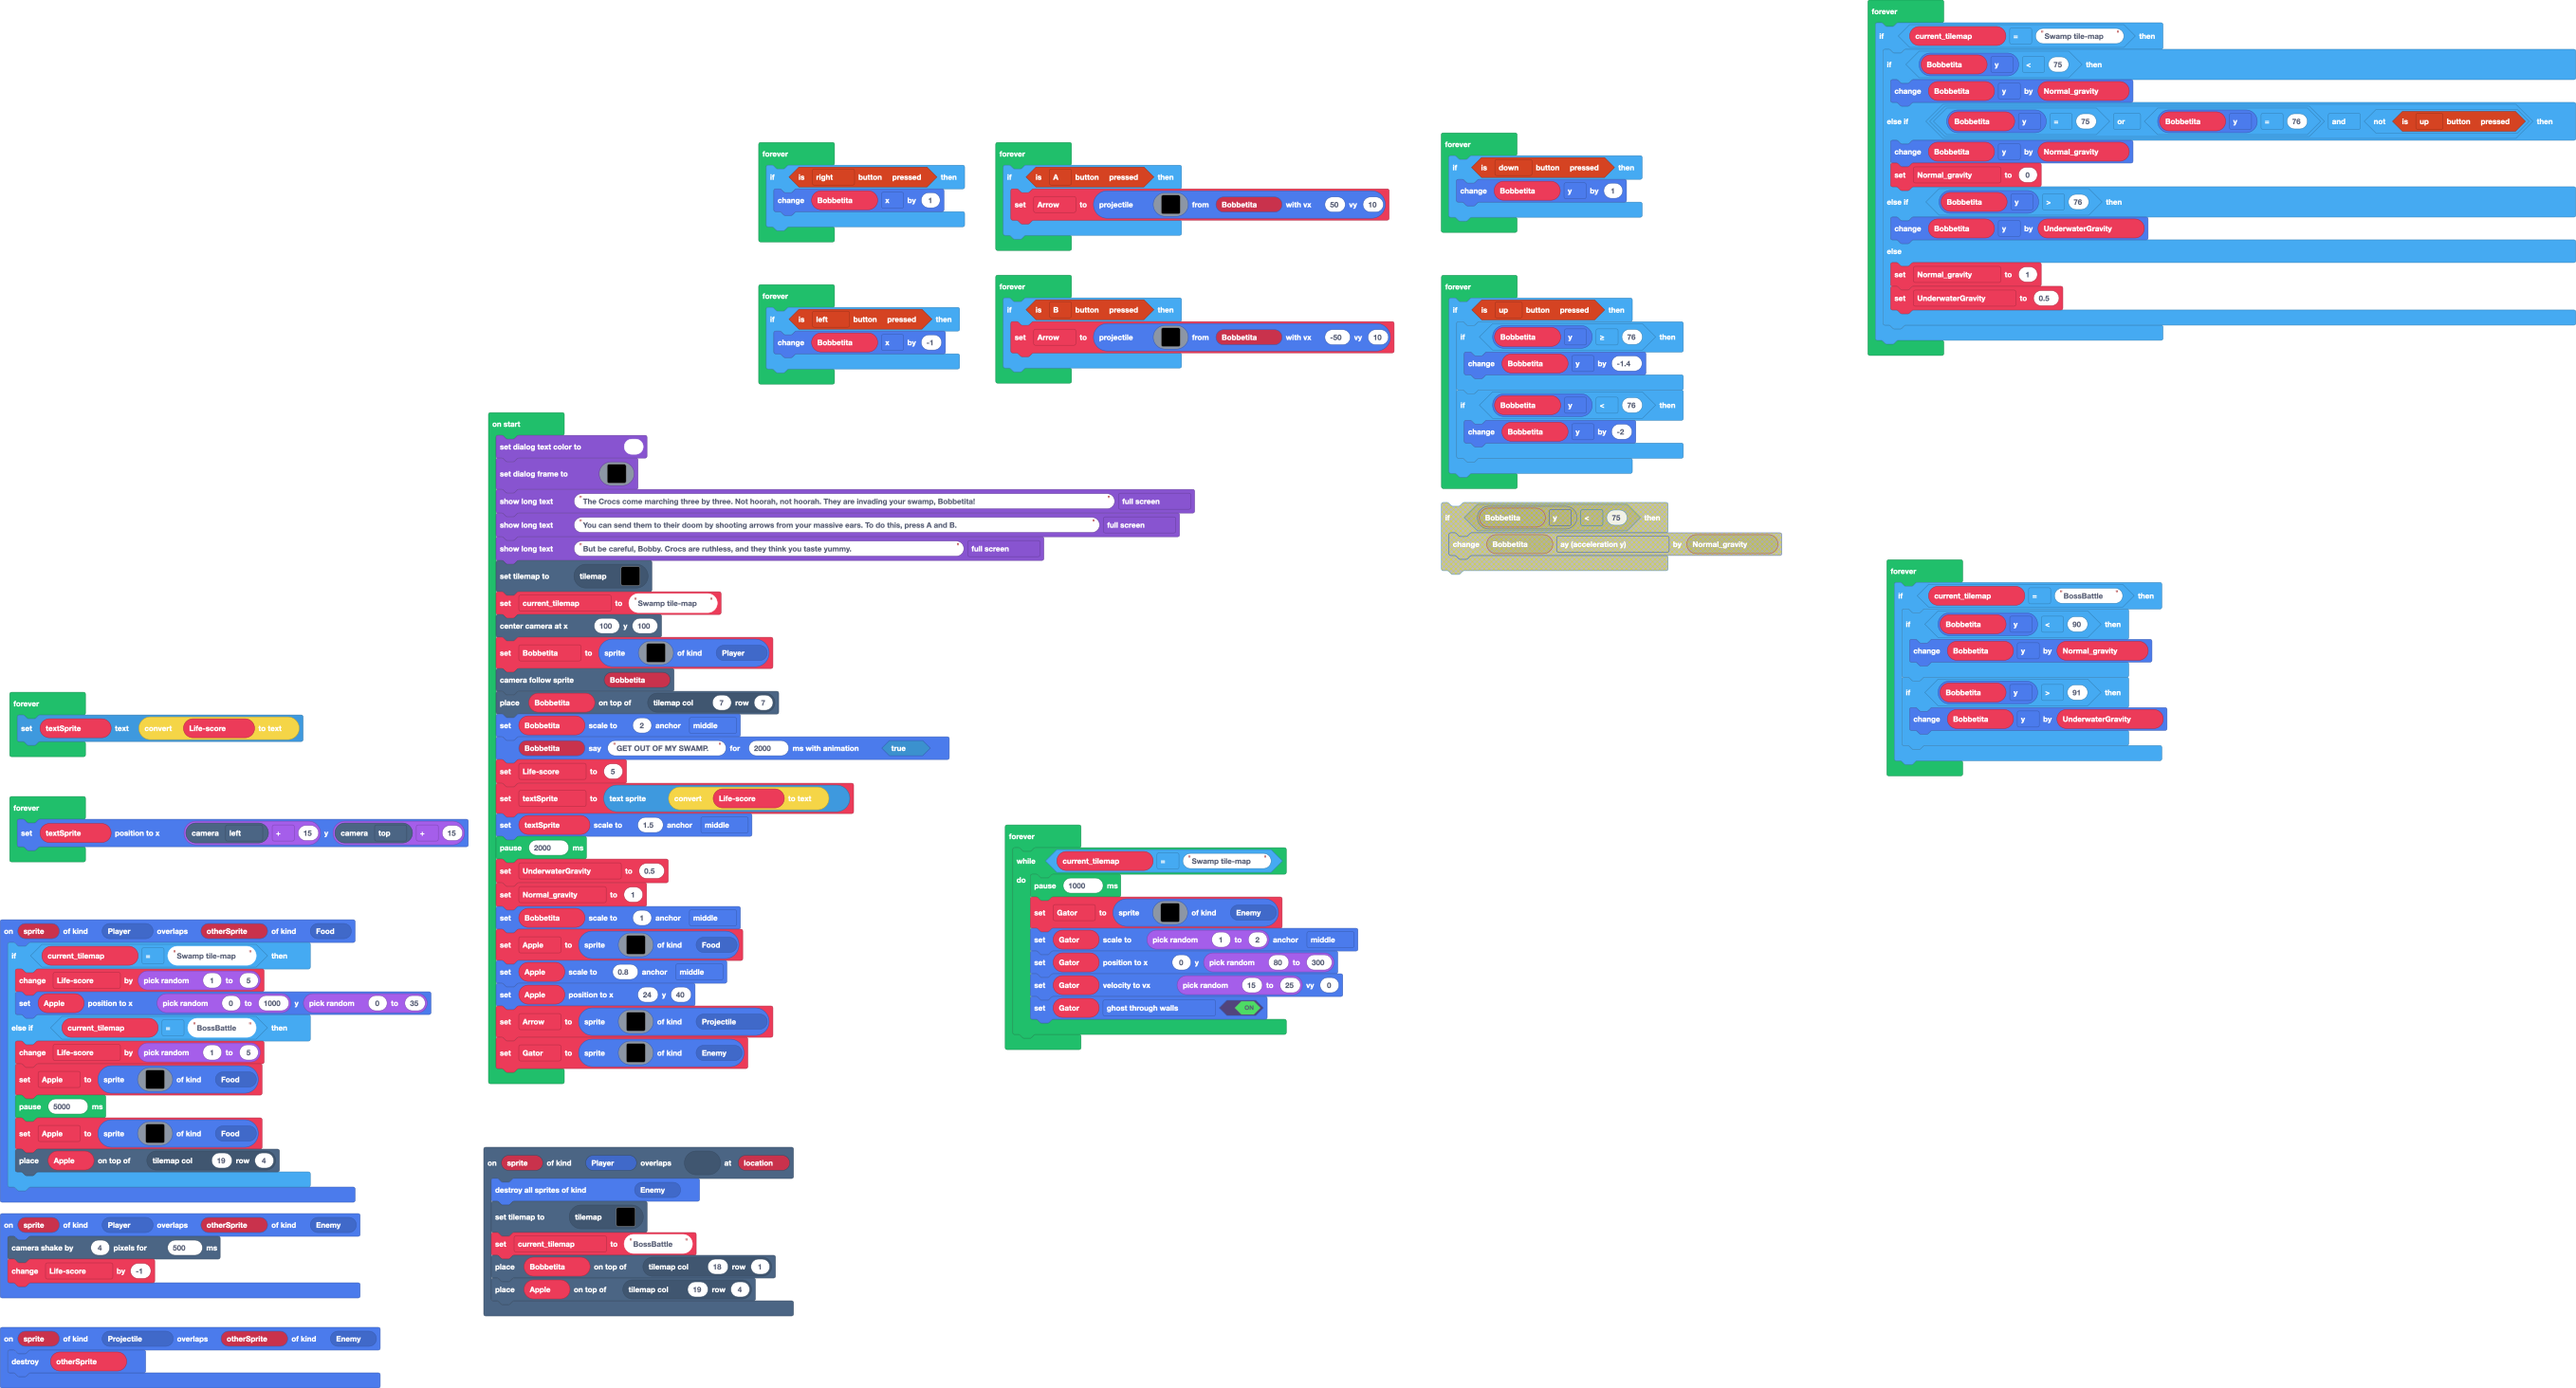
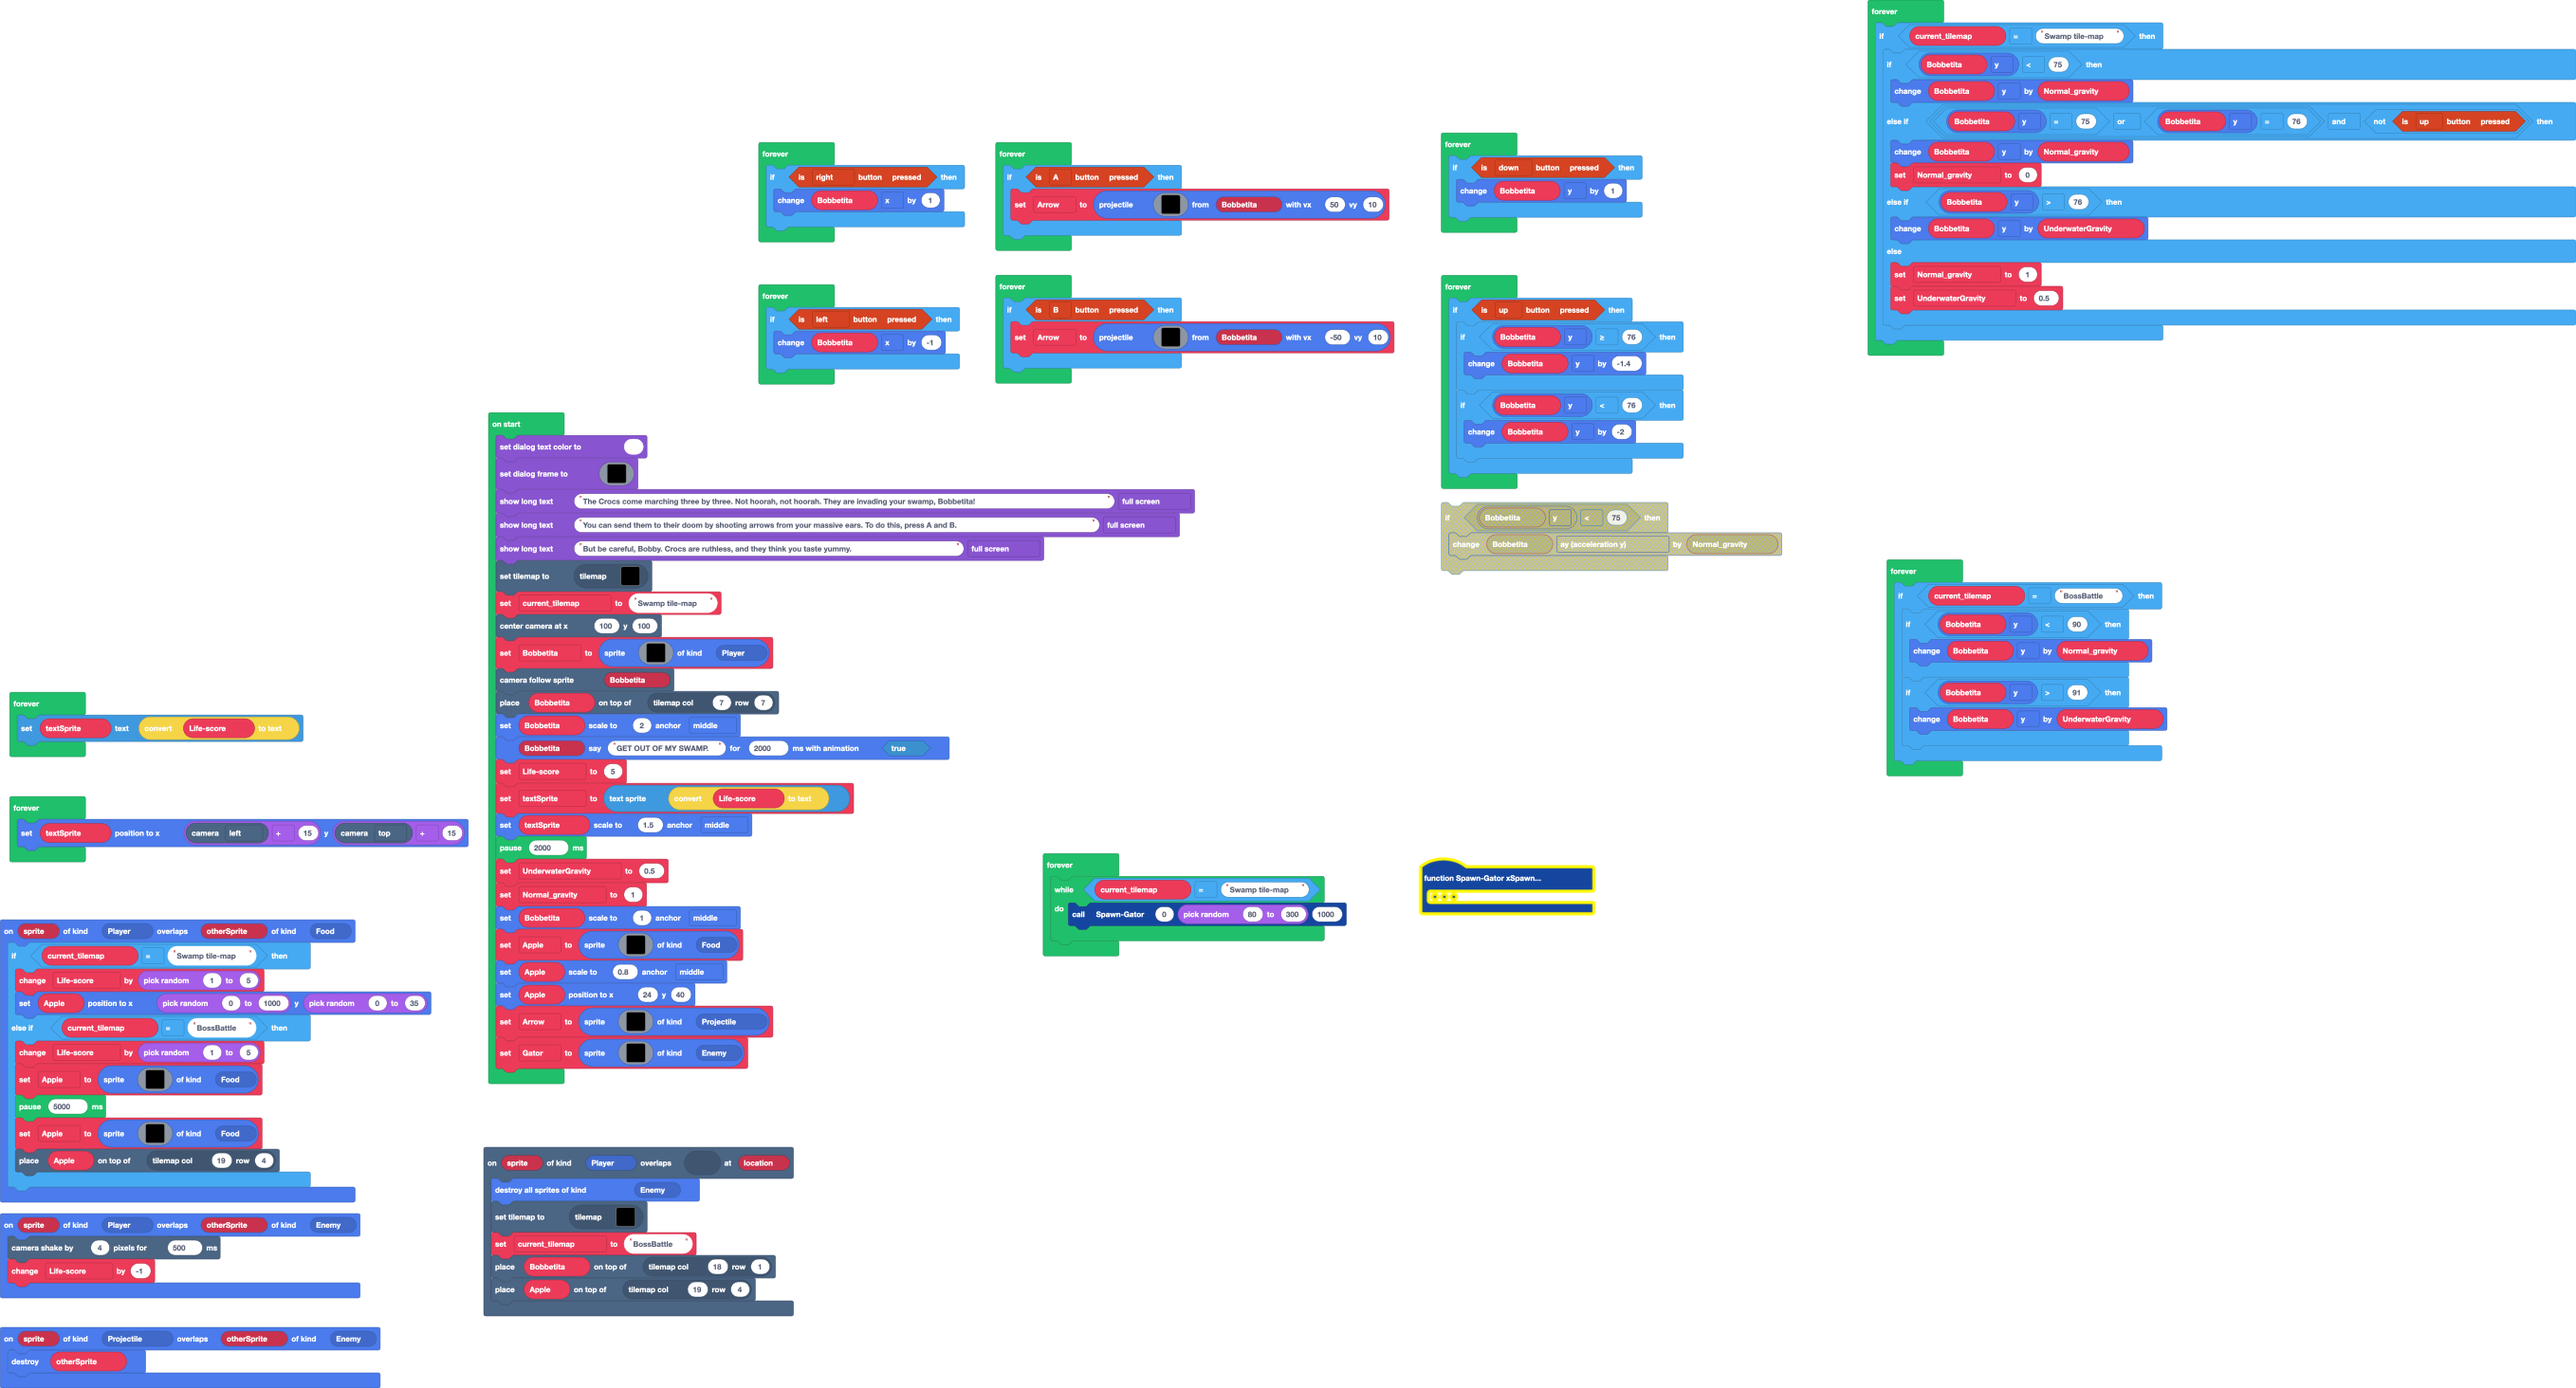
Made a function for spawning gators

Changed region(s): [[0.3711, 0.584, 0.6186, 0.7684]]

diff --git a/main.ts b/main.ts
@@ -21,6 +21,14 @@ sprites.onOverlap(SpriteKind.Player, SpriteKind.Food, function (sprite, otherSpr
         tiles.placeOnTile(Apple, tiles.getTileLocation(19, 4))
     }
 })
+function SpawnGator (xSpawn: number, ySpawn: number, Interval: number) {
+    pause(Interval)
+    Gator = sprites.create(assets.image`Alligators`, SpriteKind.Enemy)
+    Gator.setScale(randint(1, 2), ScaleAnchor.Middle)
+    Gator.setPosition(xSpawn, ySpawn)
+    Gator.setVelocity(randint(15, 25), 0)
+    Gator.setFlag(SpriteFlag.GhostThroughWalls, true)
+}
 sprites.onOverlap(SpriteKind.Projectile, SpriteKind.Enemy, function (sprite, otherSprite) {
     otherSprite.destroy()
 })
@@ -28,6 +36,7 @@ sprites.onOverlap(SpriteKind.Player, SpriteKind.Enemy, function (sprite, otherSp
     scene.cameraShake(4, 500)
     Lifescore += -1
 })
+let Gator: Sprite = null
 let Apple: Sprite = null
 let Bobbetita: Sprite = null
 let current_tilemap = ""
@@ -55,7 +64,7 @@ Apple = sprites.create(assets.image`Apple`, SpriteKind.Food)
 Apple.setScale(0.8, ScaleAnchor.Middle)
 Apple.setPosition(24, 40)
 let Arrow = sprites.create(assets.image`Abyss`, SpriteKind.Projectile)
-let Gator = sprites.create(assets.image`Abyss`, SpriteKind.Enemy)
+Gator = sprites.create(assets.image`Abyss`, SpriteKind.Enemy)
 forever(function () {
     if (current_tilemap == "Swamp tile-map") {
         if (Bobbetita.y < 75) {
@@ -124,11 +133,6 @@ forever(function () {
 })
 forever(function () {
     while (current_tilemap == "Swamp tile-map") {
-        pause(1000)
-        Gator = sprites.create(assets.image`Alligators`, SpriteKind.Enemy)
-        Gator.setScale(randint(1, 2), ScaleAnchor.Middle)
-        Gator.setPosition(0, randint(80, 300))
-        Gator.setVelocity(randint(15, 25), 0)
-        Gator.setFlag(SpriteFlag.GhostThroughWalls, true)
+        SpawnGator(0, randint(80, 300), 1000)
     }
 })
